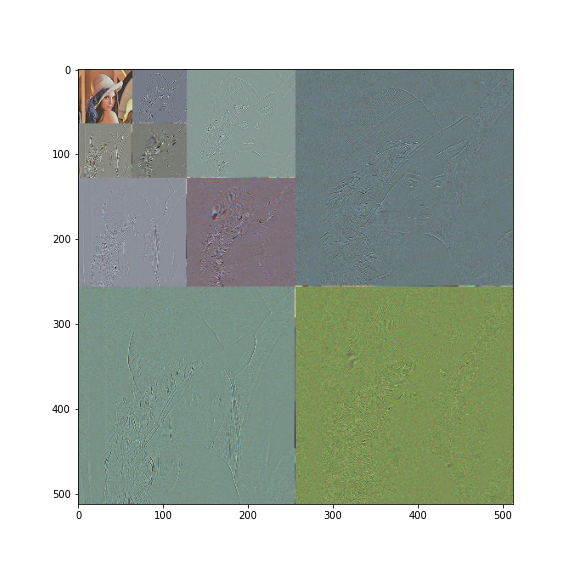
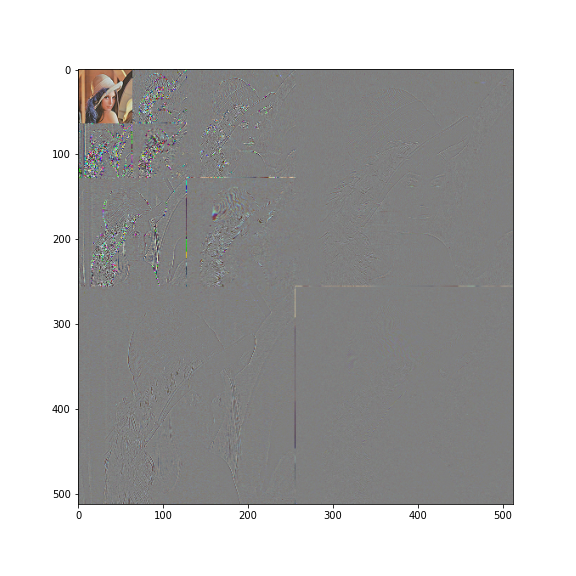
.

diff --git a/study_guide/08-2D-DWT/index.html b/study_guide/08-2D-DWT/index.html
@@ -527,14 +527,17 @@ display="inline" ><mn>3</mn></math>-levels
 cellspacing="0" cellpadding="0"  
 ><colgroup id="TBL-7-1g"><col 
 id="TBL-7-1" /><col 
-id="TBL-7-2" /></colgroup><tr  
+id="TBL-7-2" /><col 
+id="TBL-7-3" /></colgroup><tr  
  style="vertical-align:baseline;" id="TBL-7-1-"><td  style="text-align:center; white-space:nowrap;" id="TBL-7-1-1"  
 class="td11"> <!--l. 109--><p class="noindent" ><div style="text-align:center;"> <img width=500 src="lena.png" /> </div>                                                                    </p></td><td  style="text-align:center; white-space:nowrap;" id="TBL-7-1-2"  
-class="td11"> <!--l. 109--><p class="noindent" ><div style="text-align:center;"> <img width=500 src="dwt_lena.png" /> </div>                                                                    </p></td>
+class="td11"> <!--l. 109--><p class="noindent" ><div style="text-align:center;"> <img width=500 src="dwt_lena.png" /> </div>                                                                    </p></td><td  style="text-align:center; white-space:nowrap;" id="TBL-7-1-3"  
+class="td11"> <!--l. 109--><p class="noindent" ><div style="text-align:center;"> <img width=500 src="dwt_lena_normalized.png" /> </div>                                                                    </p></td>
 </tr><tr  
  style="vertical-align:baseline;" id="TBL-7-2-"><td  style="text-align:center; white-space:nowrap;" id="TBL-7-2-1"  
 class="td11">                                 &#x0028;a&#x0029;                                                    </td><td  style="text-align:center; white-space:nowrap;" id="TBL-7-2-2"  
-class="td11">                                 &#x0028;b&#x0029;                                                    </td></tr></table>
+class="td11">                                 &#x0028;b&#x0029;                                                    </td><td  style="text-align:center; white-space:nowrap;" id="TBL-7-2-3"  
+class="td11">                                 &#x0028;c&#x0029;                                                    </td></tr></table>
 </div> <a 
  id="x1-1008r2"></a>
 <a 
@@ -543,7 +546,7 @@ class="td11">                                 &#x0028;b&#x0029;                 
 ><span class="id">
 Figure&#x00A0;2:        </span><span  
 class="content">Sub&#xFB01;g.&#x00A0;&#x0028;a&#x0029;:        the        Lena        image.        Sub&#xFB01;g.&#x00A0;&#x0028;b&#x0029;:
-<!--l. 114--><math 
+<!--l. 116--><math 
  xmlns="http://www.w3.org/1998/Math/MathML"  
 display="inline" ><msup><mrow 
 ><mstyle 
@@ -553,7 +556,17 @@ class="text"><mtext  >2D-DWT</mtext></mstyle></mrow><mrow
 class="MathClass-open">&#x0028;</mo><mstyle 
 class="text"><mtext  >Lena</mtext></mstyle><mo 
 class="MathClass-close">&#x0029;</mo></math>&#x2019;s
-decomposition. See <a 
+decomposition. Sub&#xFB01;g.&#x00A0;&#x0028;c&#x0029;: <!--l. 116--><math 
+ xmlns="http://www.w3.org/1998/Math/MathML"  
+display="inline" ><msup><mrow 
+><mstyle 
+class="text"><mtext  >2D-DWT</mtext></mstyle></mrow><mrow 
+><mn>3</mn></mrow></msup 
+><mo 
+class="MathClass-open">&#x0028;</mo><mstyle 
+class="text"><mtext  >Lena</mtext></mstyle><mo 
+class="MathClass-close">&#x0029;</mo></math>&#x2019;s
+normalized decomposition. See <a 
 href="https://github.com/Sistemas-Multimedia/Sistemas-Multimedia.github.io/blob/master/study_guide/06-2D-DWT/dwt_lena.ipynb" >this notebook</a>.
 </span></div><!--tex4ht:label?: x1-1008r1 -->
                                                                   
@@ -562,7 +575,7 @@ href="https://github.com/Sistemas-Multimedia/Sistemas-Multimedia.github.io/blob/
    </div><hr class="endfigure" />
    <h4 class="subsectionHead"><span class="titlemark">1.1   </span> <a 
  id="x1-20001.1"></a>Multiresolution</h4>
-<!--l. 119--><p class="noindent" >Similarly to the 1D case, a <!--l. 119--><math 
+<!--l. 121--><p class="noindent" >Similarly to the 1D case, a <!--l. 121--><math 
  xmlns="http://www.w3.org/1998/Math/MathML"  
 display="inline" ><msup><mrow 
 ><mstyle 
@@ -573,7 +586,7 @@ class="text"><mtext  >2D-DWT</mtext></mstyle></mrow><mrow
 class="MathClass-open">&#x0028;</mo><mo 
 class="MathClass-bin">&#x22C5;</mo><mo 
 class="MathClass-close">&#x0029;</mo></math>
-provides <!--l. 119--><math 
+provides <!--l. 121--><math 
  xmlns="http://www.w3.org/1998/Math/MathML"  
 display="inline" ><mi 
 >S</mi> <mo 
@@ -582,21 +595,28 @@ spatial resolution levels. An example of this can be seen in the Sub&#xFB01;g.&#
 href="#x1-1004r1">1<!--tex4ht:ref: fig:2D-DWT --></a>-&#x0028;d&#x0029;, where
 there are 3 possible resolutions. In the Sub&#xFB01;g.&#x00A0;<a 
 href="#x1-1008r2">2<!--tex4ht:ref: fig:lena_2D-DWT --></a> there are 4 resolutions.
-</p><!--l. 125--><p class="noindent" >
+</p><!--l. 127--><p class="noindent" >
 </p>
    <h4 class="subsectionHead"><span class="titlemark">1.2   </span> <a 
  id="x1-30001.2"></a>Quantization</h4>
-<!--l. 126--><p class="noindent" >The quantization step &#x0028;see the previous milestone&#x0029; should be inversely proportional to the gain
-of the subbands<span class="footnote-mark"><a 
+<!--l. 128--><p class="noindent" >The quantization step &#x0028;see the previous milestone&#x0029; should be inversely proportional to the
+L<!--l. 129--><math 
+ xmlns="http://www.w3.org/1998/Math/MathML"  
+display="inline" ><msub><mrow 
+></mrow><mrow 
+><mn>2</mn></mrow></msub 
+></math> synthesis gain of
+the subbands<span class="footnote-mark"><a 
 href="index2.html#fn1x0"><sup class="textsuperscript">1</sup></a></span><a 
- id="x1-3001f1"></a> 
+ id="x1-3001f1"></a> &#x00A0;<span class="cite">&#x005B;<span 
+class="ecbx-1000">?</span>&#x005D;</span>.
 Most of the DWT&#x2019;s used in image coding are orthogonal or biorthogonal. In
 orthogonal transform, all the subbands have the same gain, but this is not true for
 biorthogonal DWTs.
-</p><!--l. 135--><p class="indent" >   To &#xFB01;nd the gains we can compute the energy of the signal generated by the
+</p><!--l. 138--><p class="indent" >   To &#xFB01;nd the gains we can compute the energy of the signal generated by the
 inverse transform of the unitary impulse discrete 2D signal </p><table class="equation"><tr><td> <a 
  id="x1-3002r3"></a>
-<!--l. 137--><math 
+<!--l. 140--><math 
  xmlns="http://www.w3.org/1998/Math/MathML"  
 display="block" class="equation"><msub><mrow 
 >
@@ -630,9 +650,9 @@ class="array"  columnalign="left">  <mstyle
 class="text"><mtext  >otherwise</mtext></mstyle> <mo 
 class="MathClass-punc">,</mo></mtd></mtr> <!--ll--></mtable>                                                            </mrow><mo fence="true" form="postfix"></mo></mrow>
 </math></td><td class="eq-no">&#x0028;3&#x0029;</td></tr></table>
-<!--l. 146--><p class="indent" >   where the <a 
+<!--l. 149--><p class="indent" >   where the <a 
 href="https://en.wikipedia.org/wiki/Energy_(signal_processing)" >energy of a discrete signal</a>
-<!--l. 148--><math 
+<!--l. 151--><math 
  xmlns="http://www.w3.org/1998/Math/MathML"  
 display="inline" ><mi 
 >x</mi></math> is
@@ -641,7 +661,7 @@ de&#xFB01;ned as </p><table class="equation"><tr><td> <a
                                                                   
 
                                                                   
-<!--l. 149--><math 
+<!--l. 152--><math 
  xmlns="http://www.w3.org/1998/Math/MathML"  
 display="block" class="equation">
                           <mo 
@@ -665,9 +685,16 @@ class="MathClass-rel">=</mo><munder class="msub"><mrow
 ><mo 
 class="MathClass-punc">.</mo>
 </math></td><td class="eq-no">&#x0028;4&#x0029;</td></tr></table>
+<!--l. 156--><p class="indent" >   Notice that &#x0028;see the Fig.&#x00A0;<a 
+href="#x1-1008r2">2<!--tex4ht:ref: fig:lena_2D-DWT --></a>&#x0029; the low-frequency subbands concentrate more of the
+energy &#x0028;and the visual information&#x0029;. Therefore, these subbands should be
+quantized less than the high-frequency subbands. This is exactly what we are
+doing when we use a quantization step inversely proportional to the subband
+gains.
+</p>
    <h3 class="sectionHead"><span class="titlemark">2   </span> <a 
  id="x1-40002"></a>What you have to do?</h3>
-<!--l. 155--><p class="noindent" >
+<!--l. 164--><p class="noindent" >
      </p><ol  class="enumerate1" >
      <li 
   class="enumerate" id="x1-4002x1">Please, using this <a 
@@ -677,17 +704,20 @@ href="https://github.com/Sistemas-Multimedia/Sistemas-Multimedia.github.io/blob/
      </li>
      <li 
   class="enumerate" id="x1-4004x2">Redo the experiments using a biorthogonal DWT.</li></ol>
-<!--l. 163--><p class="noindent" >
+<!--l. 172--><p class="noindent" >
 </p>
    <h3 class="sectionHead"><span class="titlemark">3   </span> <a 
  id="x1-50003"></a>Timming</h3>
-<!--l. 165--><p class="noindent" >Please, &#xFB01;nish this notebook before the next class session.
-</p><!--l. 167--><p class="noindent" >
+<!--l. 174--><p class="noindent" >Please, &#xFB01;nish this notebook before the next class session.
+</p><!--l. 176--><p class="noindent" >
 </p>
    <h3 class="sectionHead"><span class="titlemark">4   </span> <a 
  id="x1-60004"></a>Deliverables</h3>
-<!--l. 169--><p class="noindent" >None.
-</p><!--l. 171--><p class="noindent" >
+<!--l. 178--><p class="noindent" >None.
+                                                                  
+
+                                                                  
+</p><!--l. 180--><p class="noindent" >
 </p>
    <h3 class="sectionHead"><span class="titlemark">5   </span> <a 
  id="x1-70005"></a>Resources</h3>
@@ -697,9 +727,6 @@ href="https://github.com/Sistemas-Multimedia/Sistemas-Multimedia.github.io/blob/
  id="Xsayood2017introduction"></a>K.&#x00A0;Sayood. <a 
 href="http://rahilshaikh.weebly.com/uploads/1/1/6/3/11635894/data_compression.pdf" ><span 
 class="ecti-1000">Introduction to data compression</span></a>. Morgan Kaufmann, 2017.
-                                                                  
-
-                                                                  
 </p>
    </div>
 <a 

diff --git a/study_guide/06-color_transform/index.html b/study_guide/06-color_transform/index.html
@@ -3,8 +3,8 @@
 "http://www.w3.org/Math/DTD/mathml2/xhtml-math11-f.dtd" > 
 <html xmlns="http://www.w3.org/1999/xhtml"  
 > 
-<head><title>Sistemas Multimedia - Study Guide - Milestone 6: Redundancy Removal and
-Energy Concentration with a Color Transform</title> 
+<head><title>Sistemas Multimedia - Study Guide - Milestone 6: Removing Redundancy with a
+Color Transform</title> 
 <meta http-equiv="Content-Type" content="text/html; charset=iso-8859-1" /> 
 <meta name="generator" content="TeX4ht (https://tug.org/tex4ht/)" /> 
 <meta name="originator" content="TeX4ht (https://tug.org/tex4ht/)" /> 
@@ -23,8 +23,8 @@ Energy Concentration with a Color Transform</title>
 
 <h2 class="titleHead"><a 
 href="http://cms.ual.es/UAL/estudios/masteres/plandeestudios/asignaturas/asignatura/MASTER7114?idAss=71142105&idTit=7114" >Sistemas Multimedia</a> - Study Guide - Milestone
-6: Redundancy Removal and Energy
-Concentration with a Color Transform</h2>
+6: Removing Redundancy with a Color
+Transform</h2>
  <div class="author" ><a 
 href="https://cms.ual.es/UAL/personas/persona.htm?id=515256515553484875" ><span 
 class="ecrm-1200">Vicente Gonz</span><span 
@@ -39,7 +39,7 @@ class="ecrm-1200">- </span><a
 href="https://www.ual.es" ><span 
 class="ecrm-1200">UAL</span></a></div><br />
 <div class="date" ><span 
-class="ecrm-1200">January 11, 2021</span></div>
+class="ecrm-1200">January 12, 2021</span></div>
    </div>
    <h3 class="sectionHead"><span class="titlemark">1   </span> <a 
  id="x1-10001"></a>Description</h3>

diff --git a/study_guide/08-2D-DWT/texput.tex b/study_guide/08-2D-DWT/texput.tex
@@ -105,11 +105,13 @@ As an example, the Fig.~\ref{fig:lena_2D-DWT} shows the $3$-levels
 
 \begin{figure}
   \centering
-  \begin{tabular}{cc}
-    \vbox{\pngfig{lena}{5cm}{500}} & \vbox{\pngfig{dwt_lena}{5cm}{500}} \\
-    (a) & (b)
+  \begin{tabular}{ccc}
+    \vbox{\pngfig{lena}{5cm}{500}} & \vbox{\pngfig{dwt_lena}{5cm}{500}} & \vbox{\pngfig{dwt_lena_normalized}{5cm}{500}}\\
+    (a) & (b) & (c)
   \end{tabular}
-  \caption{Subfig.~(a): the Lena image. Subfig.~(b): $\text{2D-DWT}^3(\text{Lena})$'s decomposition. See
+  \caption{Subfig.~(a): the Lena image. Subfig.~(b):
+    $\text{2D-DWT}^3(\text{Lena})$'s decomposition. Subfig.~(c):
+    $\text{2D-DWT}^3(\text{Lena})$'s normalized decomposition. See
     \href{https://github.com/Sistemas-Multimedia/Sistemas-Multimedia.github.io/blob/master/study_guide/06-2D-DWT/dwt_lena.ipynb}{this
       notebook}.}
   \label{fig:lena_2D-DWT}
@@ -150,6 +152,12 @@ where the
 \begin{equation}
   \langle x, x\rangle =  \sum_{i}{x_i^2}.
 \end{equation}
+
+Notice that (see the Fig.~\ref{fig:lena_2D-DWT}) the low-frequency
+subbands concentrate more of the energy (and the visual
+information). Therefore, these subbands should be quantized less than
+the high-frequency subbands. This is exactly what we are doing when we
+use a quantization step inversely proportional to the subband gains.
 
 \section{What you have to do?}
 

diff --git a/study_guide/06-color_transform/texput.tex b/study_guide/06-color_transform/texput.tex
@@ -1,5 +1,5 @@
 \input{../definitions}
-\title{\SM{} - Study Guide - Milestone 6: Redundancy Removal and Energy Concentration with a Color Transform}
+\title{\SM{} - Study Guide - Milestone 6: Removing Redundancy with a Color Transform}
 
 \maketitle
 
